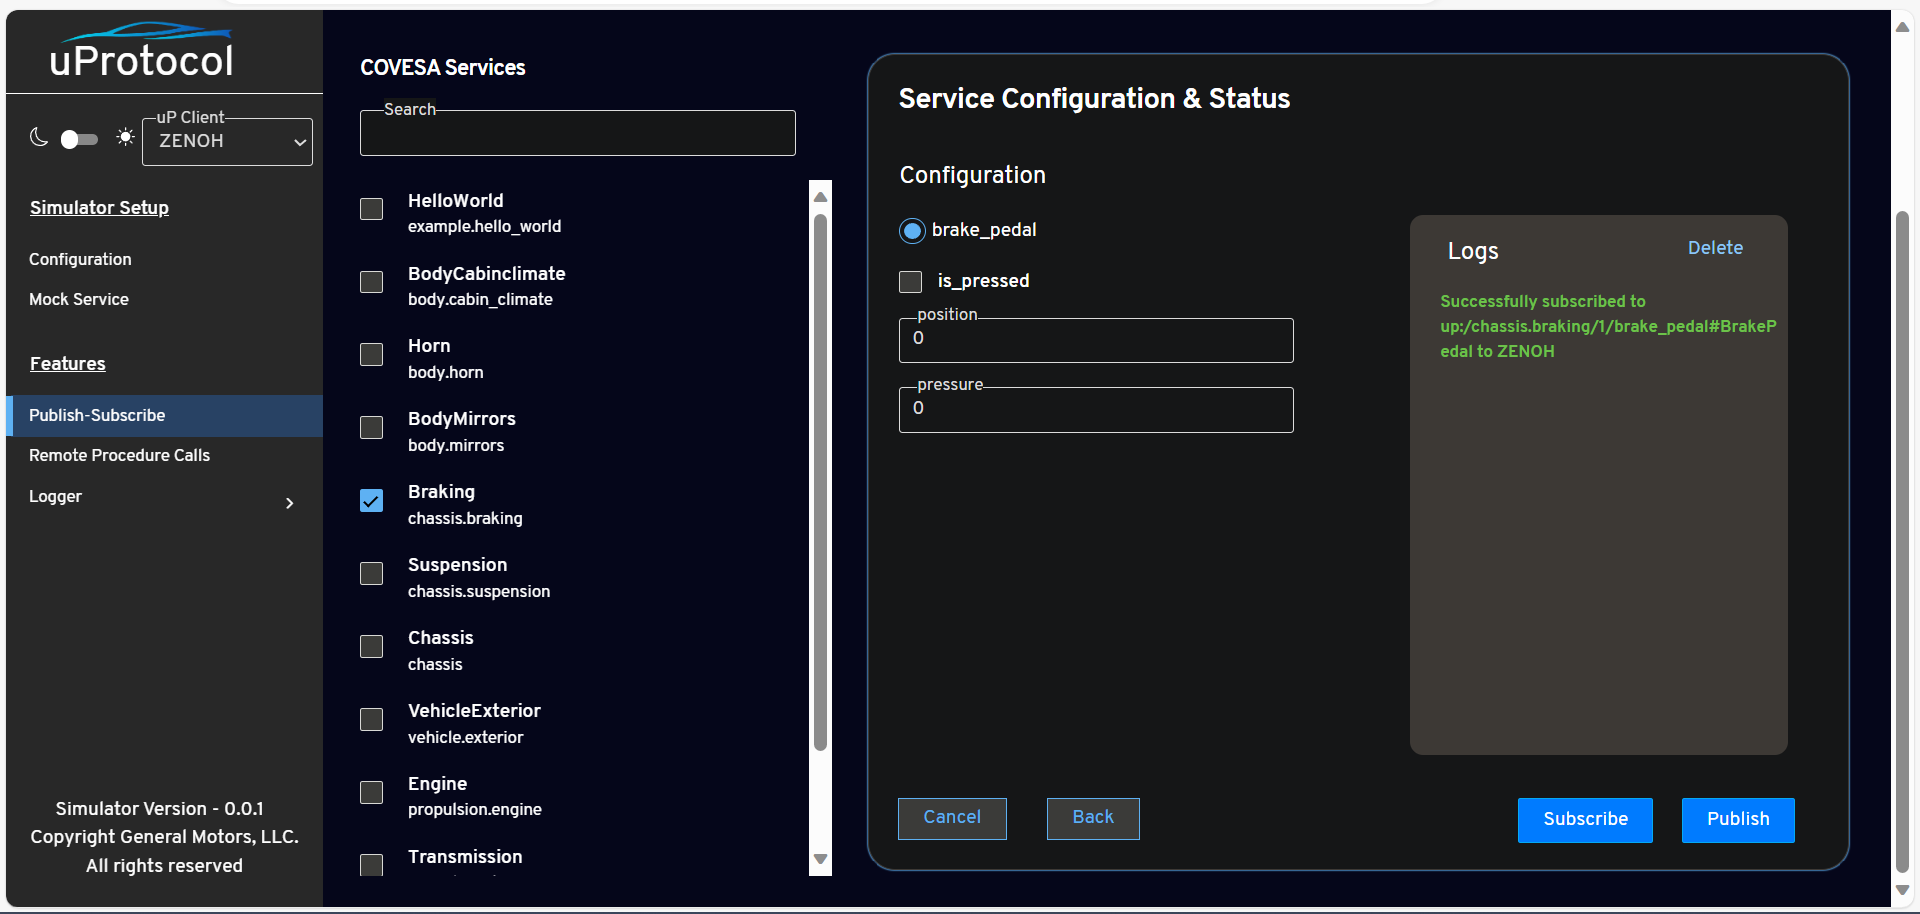
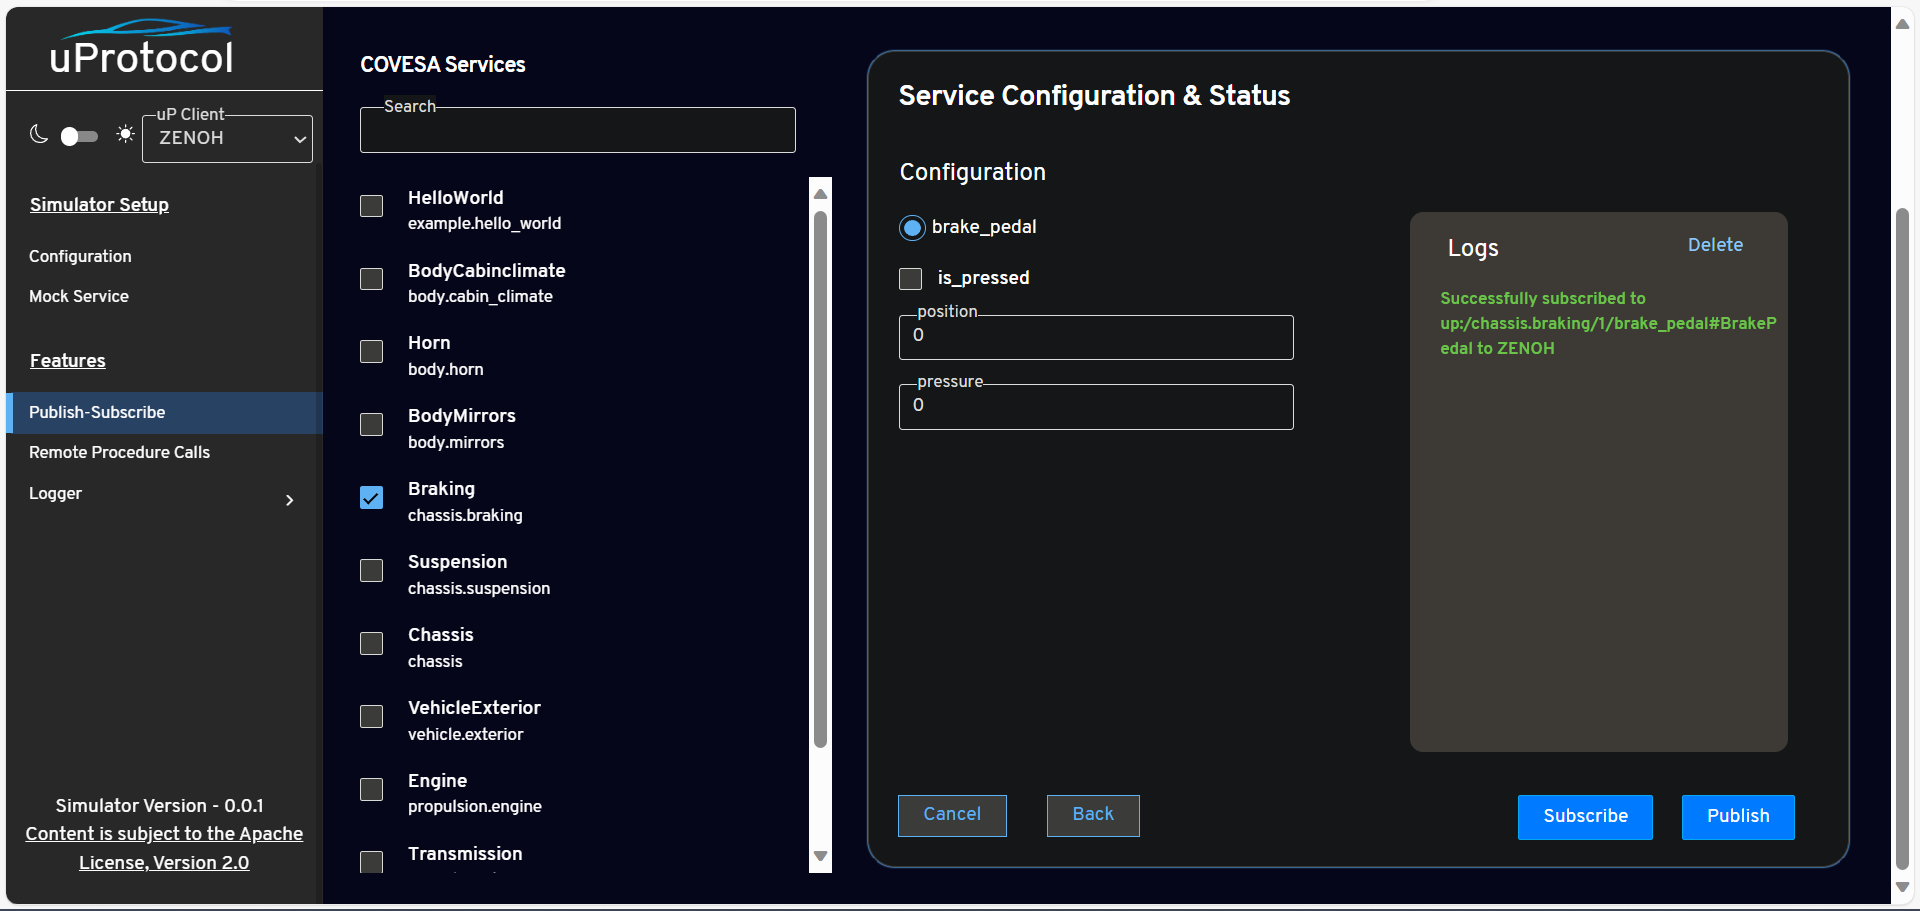
Add Apache license on side bar and update screenshots

diff --git a/simulator/ui/templates/includes/sidebar.html b/simulator/ui/templates/includes/sidebar.html
@@ -26,25 +26,25 @@
 </script>
 <div class="R-navbar-strap">
     <span class="navbar-toggler" type="button" onclick="openSideNav()" data-bs-toggle="collapse"
-        aria-controls="navbarSupportedContent" aria-label="Toggle navigation">
+          aria-controls="navbarSupportedContent" aria-label="Toggle navigation">
         <svg xmlns="http://www.w3.org/2000/svg" width="20" height="20" fill="currentColor" class="bi bi-list-task"
-            viewBox="0 0 16 16">
+             viewBox="0 0 16 16">
             <path fill-rule="evenodd"
-                d="M2 2.5a.5.5 0 0 0-.5.5v1a.5.5 0 0 0 .5.5h1a.5.5 0 0 0 .5-.5V3a.5.5 0 0 0-.5-.5H2zM3 3H2v1h1V3z" />
+                  d="M2 2.5a.5.5 0 0 0-.5.5v1a.5.5 0 0 0 .5.5h1a.5.5 0 0 0 .5-.5V3a.5.5 0 0 0-.5-.5H2zM3 3H2v1h1V3z"/>
             <path
-                d="M5 3.5a.5.5 0 0 1 .5-.5h9a.5.5 0 0 1 0 1h-9a.5.5 0 0 1-.5-.5zM5.5 7a.5.5 0 0 0 0 1h9a.5.5 0 0 0 0-1h-9zm0 4a.5.5 0 0 0 0 1h9a.5.5 0 0 0 0-1h-9z" />
+                    d="M5 3.5a.5.5 0 0 1 .5-.5h9a.5.5 0 0 1 0 1h-9a.5.5 0 0 1-.5-.5zM5.5 7a.5.5 0 0 0 0 1h9a.5.5 0 0 0 0-1h-9zm0 4a.5.5 0 0 0 0 1h9a.5.5 0 0 0 0-1h-9z"/>
             <path fill-rule="evenodd"
-                d="M1.5 7a.5.5 0 0 1 .5-.5h1a.5.5 0 0 1 .5.5v1a.5.5 0 0 1-.5.5H2a.5.5 0 0 1-.5-.5V7zM2 7h1v1H2V7zm0 3.5a.5.5 0 0 0-.5.5v1a.5.5 0 0 0 .5.5h1a.5.5 0 0 0 .5-.5v-1a.5.5 0 0 0-.5-.5H2zm1 .5H2v1h1v-1z" />
+                  d="M1.5 7a.5.5 0 0 1 .5-.5h1a.5.5 0 0 1 .5.5v1a.5.5 0 0 1-.5.5H2a.5.5 0 0 1-.5-.5V7zM2 7h1v1H2V7zm0 3.5a.5.5 0 0 0-.5.5v1a.5.5 0 0 0 .5.5h1a.5.5 0 0 0 .5-.5v-1a.5.5 0 0 0-.5-.5H2zm1 .5H2v1h1v-1z"/>
         </svg>
     </span>
 
 
     <span class="navbar-closer" type="button" onclick="closeSideNav()" data-bs-toggle="collapse"
-        aria-controls="navbarSupportedContent" aria-label="Toggle navigation" style="margin-left: 216px">
+          aria-controls="navbarSupportedContent" aria-label="Toggle navigation" style="margin-left: 216px">
         <svg xmlns="http://www.w3.org/2000/svg" width="20" height="20" fill="currentColor" class="bi bi-x-lg"
-            viewBox="0 0 16 16">
+             viewBox="0 0 16 16">
             <path
-                d="M2.146 2.854a.5.5 0 1 1 .708-.708L8 7.293l5.146-5.147a.5.5 0 0 1 .708.708L8.707 8l5.147 5.146a.5.5 0 0 1-.708.708L8 8.707l-5.146 5.147a.5.5 0 0 1-.708-.708L7.293 8 2.146 2.854Z" />
+                    d="M2.146 2.854a.5.5 0 1 1 .708-.708L8 7.293l5.146-5.147a.5.5 0 0 1 .708.708L8.707 8l5.147 5.146a.5.5 0 0 1-.708.708L8 8.707l-5.146 5.147a.5.5 0 0 1-.708-.708L7.293 8 2.146 2.854Z"/>
         </svg>
     </span>
 
@@ -55,9 +55,9 @@
     <div class="navbar-wrapper">
         <div class="navbar-brand header-logo" style="margin-bottom:20px">
             <img id="logoImg" src="{{ config.ASSETS_ROOT }}/icons/logo_dark.svg"
-                style="width:170px;height:90px;padding-top:5px;padding-left:15px;" />
+                 style="width:170px;height:90px;padding-top:5px;padding-left:15px;"/>
             <img id="logo-light" src="{{ config.ASSETS_ROOT }}/icons/logo_light.svg"
-                style="width:170px;height:90px;padding-top:5px;padding-left:15px;display:none" />
+                 style="width:170px;height:90px;padding-top:5px;padding-left:15px;display:none"/>
 
         </div>
         <!--        toggle buttons-->
@@ -65,29 +65,29 @@
             <div style="width:35%;margin-left:20px;display: flex;align-items: center; justify-content: space-between;">
                 <div>
                     <svg class="bi bi-moon statusIcon" fill="currentColor" height="16" viewBox="0 0 16 16" width="16"
-                        xmlns="http://www.w3.org/2000/svg">
+                         xmlns="http://www.w3.org/2000/svg">
                         <path
-                            d="M6 .278a.768.768 0 0 1 .08.858 7.208 7.208 0 0 0-.878 3.46c0 4.021 3.278 7.277 7.318 7.277.527 0 1.04-.055 1.533-.16a.787.787 0 0 1 .81.316.733.733 0 0 1-.031.893A8.349 8.349 0 0 1 8.344 16C3.734 16 0 12.286 0 7.71 0 4.266 2.114 1.312 5.124.06A.752.752 0 0 1 6 .278zM4.858 1.311A7.269 7.269 0 0 0 1.025 7.71c0 4.02 3.279 7.276 7.319 7.276a7.316 7.316 0 0 0 5.205-2.162c-.337.042-.68.063-1.029.063-4.61 0-8.343-3.714-8.343-8.29 0-1.167.242-2.278.681-3.286z" />
+                                d="M6 .278a.768.768 0 0 1 .08.858 7.208 7.208 0 0 0-.878 3.46c0 4.021 3.278 7.277 7.318 7.277.527 0 1.04-.055 1.533-.16a.787.787 0 0 1 .81.316.733.733 0 0 1-.031.893A8.349 8.349 0 0 1 8.344 16C3.734 16 0 12.286 0 7.71 0 4.266 2.114 1.312 5.124.06A.752.752 0 0 1 6 .278zM4.858 1.311A7.269 7.269 0 0 0 1.025 7.71c0 4.02 3.279 7.276 7.319 7.276a7.316 7.316 0 0 0 5.205-2.162c-.337.042-.68.063-1.029.063-4.61 0-8.343-3.714-8.343-8.29 0-1.167.242-2.278.681-3.286z"/>
                     </svg>
                 </div>
 
                 <div style="position: relative; top: 2px;">
-                    <input class="toggle" id="cbTheme" onchange="toggleTheme(this)" type="checkbox" />
+                    <input class="toggle" id="cbTheme" onchange="toggleTheme(this)" type="checkbox"/>
                     <label for="cbTheme" style="background: transparent !important"></label>
                 </div>
 
                 <div style="position: relative; left: 2px">
                     <svg class="bi bi-sun-fill statusIcon" fill="currentColor" height="16" viewBox="0 0 16 16"
-                        width="16" xmlns="http://www.w3.org/2000/svg">
+                         width="16" xmlns="http://www.w3.org/2000/svg">
                         <path
-                            d="M8 12a4 4 0 1 0 0-8 4 4 0 0 0 0 8zM8 0a.5.5 0 0 1 .5.5v2a.5.5 0 0 1-1 0v-2A.5.5 0 0 1 8 0zm0 13a.5.5 0 0 1 .5.5v2a.5.5 0 0 1-1 0v-2A.5.5 0 0 1 8 13zm8-5a.5.5 0 0 1-.5.5h-2a.5.5 0 0 1 0-1h2a.5.5 0 0 1 .5.5zM3 8a.5.5 0 0 1-.5.5h-2a.5.5 0 0 1 0-1h2A.5.5 0 0 1 3 8zm10.657-5.657a.5.5 0 0 1 0 .707l-1.414 1.415a.5.5 0 1 1-.707-.708l1.414-1.414a.5.5 0 0 1 .707 0zm-9.193 9.193a.5.5 0 0 1 0 .707L3.05 13.657a.5.5 0 0 1-.707-.707l1.414-1.414a.5.5 0 0 1 .707 0zm9.193 2.121a.5.5 0 0 1-.707 0l-1.414-1.414a.5.5 0 0 1 .707-.707l1.414 1.414a.5.5 0 0 1 0 .707zM4.464 4.465a.5.5 0 0 1-.707 0L2.343 3.05a.5.5 0 1 1 .707-.707l1.414 1.414a.5.5 0 0 1 0 .708z" />
+                                d="M8 12a4 4 0 1 0 0-8 4 4 0 0 0 0 8zM8 0a.5.5 0 0 1 .5.5v2a.5.5 0 0 1-1 0v-2A.5.5 0 0 1 8 0zm0 13a.5.5 0 0 1 .5.5v2a.5.5 0 0 1-1 0v-2A.5.5 0 0 1 8 13zm8-5a.5.5 0 0 1-.5.5h-2a.5.5 0 0 1 0-1h2a.5.5 0 0 1 .5.5zM3 8a.5.5 0 0 1-.5.5h-2a.5.5 0 0 1 0-1h2A.5.5 0 0 1 3 8zm10.657-5.657a.5.5 0 0 1 0 .707l-1.414 1.415a.5.5 0 1 1-.707-.708l1.414-1.414a.5.5 0 0 1 .707 0zm-9.193 9.193a.5.5 0 0 1 0 .707L3.05 13.657a.5.5 0 0 1-.707-.707l1.414-1.414a.5.5 0 0 1 .707 0zm9.193 2.121a.5.5 0 0 1-.707 0l-1.414-1.414a.5.5 0 0 1 .707-.707l1.414 1.414a.5.5 0 0 1 0 .707zM4.464 4.465a.5.5 0 0 1-.707 0L2.343 3.05a.5.5 0 1 1 .707-.707l1.414 1.414a.5.5 0 0 1 0 .708z"/>
                     </svg>
                 </div>
             </div>
             <div style="width:65%">
                 <div class="configuration-label" style="width:auto;position: relative;text-align:center;">
                     <select class="floating" id="utransportConfig"
-                        onchange="setTransport(this.options[this.selectedIndex].value)" style=";background:#282828">
+                            onchange="setTransport(this.options[this.selectedIndex].value)" style=";background:#282828">
                         <option value="BINDER">Android
                         </option>
                         <option value="SOME/IP">SOME/IP
@@ -168,10 +168,12 @@
                 <div>
                     <span>Simulator Version - 0.0.1</span> &nbsp
                 </div>
-                <div>Copyright General Motors, LLC.
-                    <br>
-                    All rights reserved
+                <div>
+                    <u>
+                    <a href="https://www.apache.org/licenses/LICENSE-2.0" target="_blank">
+                    Content is subject to the Apache License, Version 2.0</a></u>
                 </div>
+
 
             </div>
         </div>
